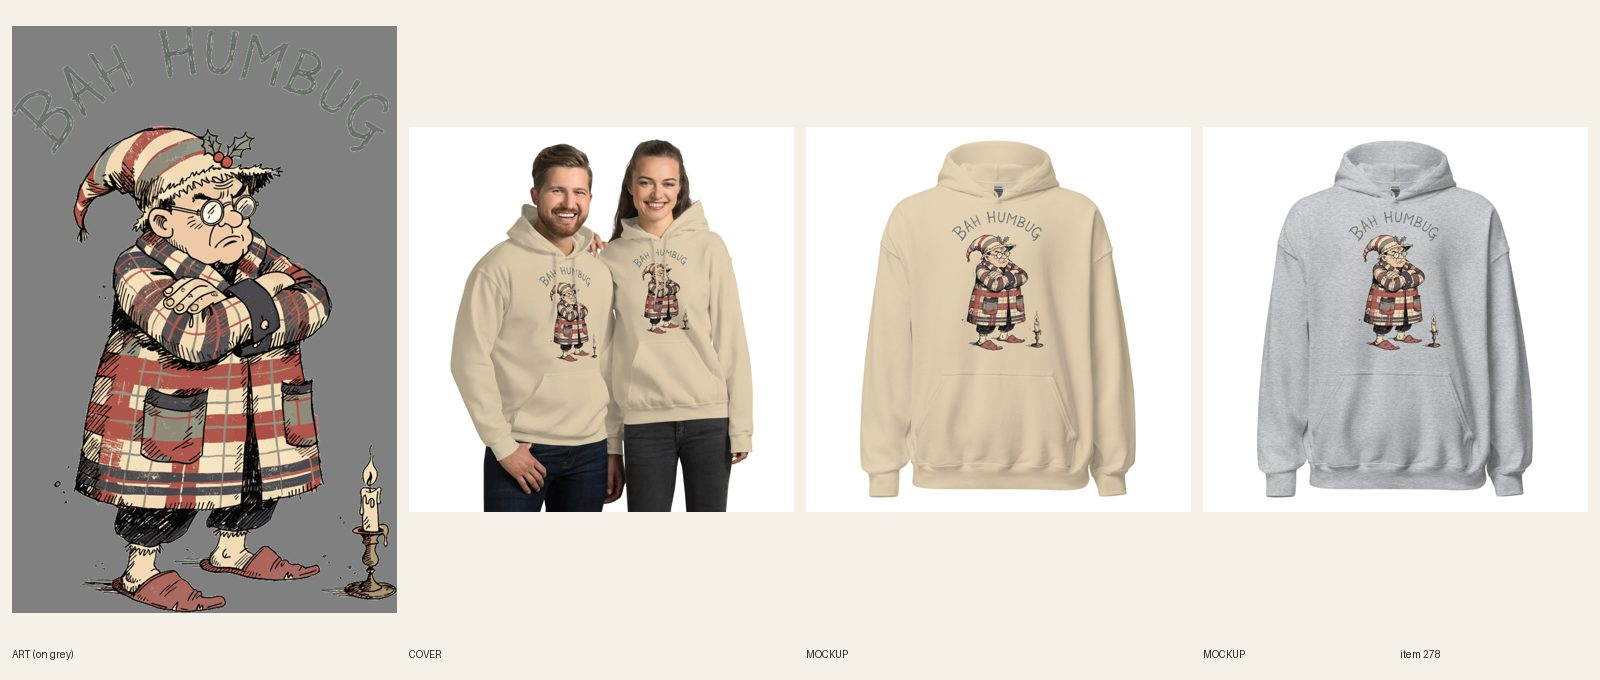
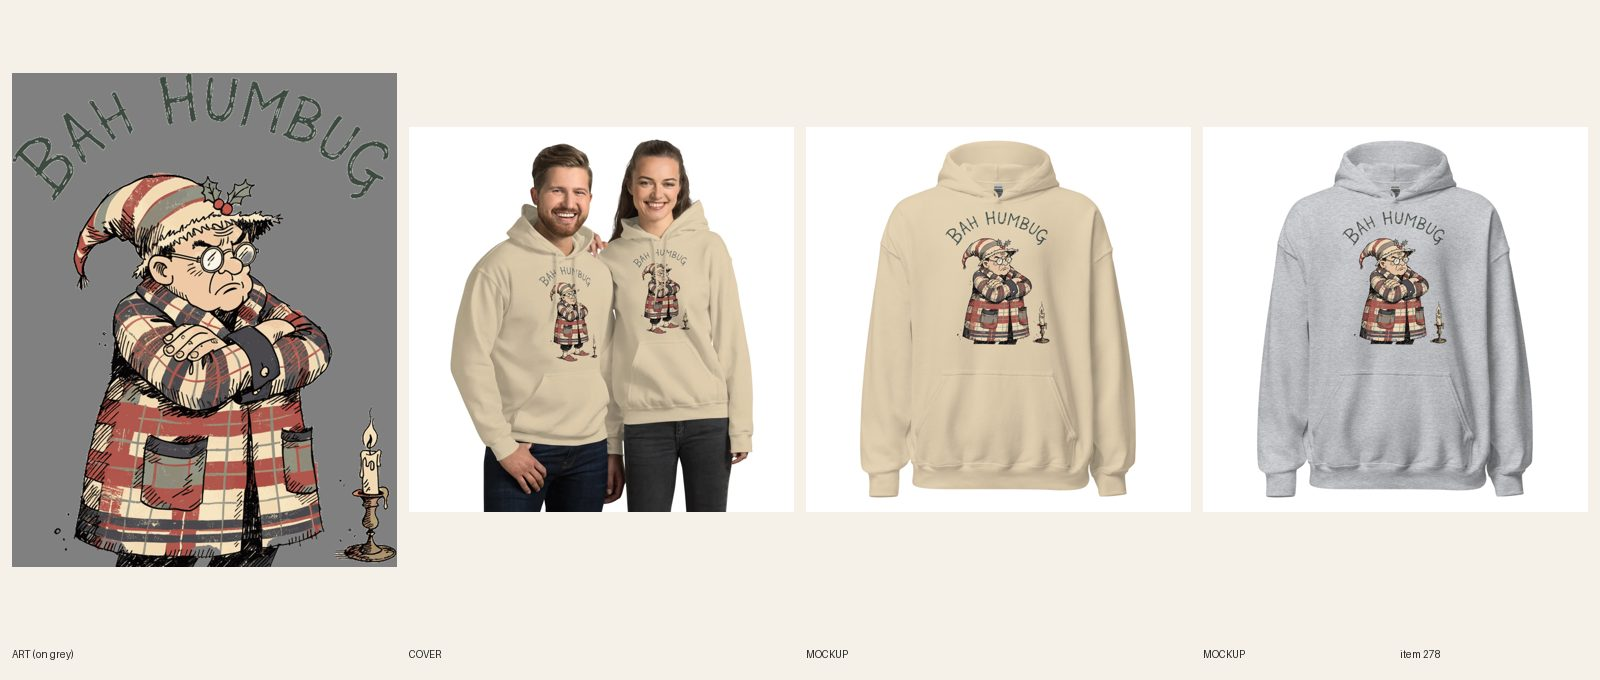
[A] review 278 Bah Humbug hoodie redo
Claude-Session: https://claude.ai/code/session_01GUybaihydzEF9YsiXP38qz

Changed region(s): [[0.0, 0.0309, 0.25, 0.9265], [0.8438, 0.3088, 0.9062, 0.525], [0.5938, 0.3088, 0.6562, 0.525]]

diff --git a/docs/pipeline/278-christmas-hoodie-bah-humbug.md b/docs/pipeline/278-christmas-hoodie-bah-humbug.md
@@ -1,4 +1,4 @@
-status: REDO
+status: REVIEW
 lane: A
 type: twin
 id: 278
@@ -29,3 +29,4 @@ cover: temp (swap)
   2. R5.3.5: after resizing, read BAH HUMBUG on the Sport Grey mockup at phone size. If the sage still sinks, darken the lettering ink one step (soft black-green) in print-prep, or swap Sport Grey for the closest mid color it reads on, and log why.
   3. Cover: temp (swap) stays. Re-mock both colors, update variant images, rebuild the sheet.
   Art, lettering (RESPECTFULLY correctly erased), copy and the 5 FAQs pass; keep them.
+- 2026-10-17 12:20 UTC builder [A]: REDO done. (a) Art cropped at row 4620 of the 5492 original just under the robe hem, bottom edge broken into a worn edge (ragged-edge.py), candlestick cut out and moved up 790 px so it stands beside the robe; (b) BAH HUMBUG measured 98% of the art width already (cols 0-3526 of 3600), so the arc stays; (c) FW 1500 TOP 0, print 1925 px tall, ends above the pouch seam on both mockups (seam about 2000 per #373). R5.3.5: the sage lettering ink was darkened to soft black-green (60,74,64) in print-prep (387,724 px, rows above the hat plus the B and G ends); on the Sport Grey mockup at phone size BAH HUMBUG now reads clearly. Printful file 1088206072 (3000x3850; docs/print-files/278-bah-humbug.png), sync 482425414 re-linked 12/12, both front mockups and back replaced and re-attached per color. Cover unchanged (temp, swap). R6.2: still no typeset line, ring, panel or box. Sheet regenerated. REVIEW.

diff --git a/docs/intake-log.md b/docs/intake-log.md
@@ -1,4 +1,5 @@
 RUNNING director since 2026-10-17 12:12 UTC
+2026-10-17 12:20 UTC — [A] REVIEW #278 Bah Humbug hoodie redo (cropped worn edge, candle moved, FW 1500, darker lettering, re-synced 12/12).
 2026-10-17 12:12 UTC — [A] REVIEW #410 Technically a Sweater hoodie: cover redo (couple style 1427, man and woman).
 2026-10-17 12:06 UTC — [A] REVIEW #411 Women's Christmas All Lit Up hoodie (twin, Navy + Black, FW 1500, lettering enlarged, temp cover, synced 12/12).
 2026-10-17 12:10 UTC — [B] Run summary (fal empty, temp-cover mode): REVIEW #418 Reel Talk hoodie, #419 Low Battery zip, #420 Still Loading zip, #421 Slurp Responsibly half zip, #422 Gym Rat hoodie, #423 Kaiju Naps zip (all twins, DRAFT, synced, cover: temp (swap)). #421 has a flat back-view cover (Printful has no model shot for the 4740 half zip, audit WARN expected). #422 art was cut from the pump-cover AOP JPG. Left: 354 pending fal cover; 378-382 and 385 need a hand re-letter (fal); ART-NEXT items wait for fal. Price chore (40 compare-at ERRORs, 25 would be lane B) NOT done: the bulk variant update was denied by the permission classifier. Lock released. (Log times above run ahead of the real clock by about 40 min; real run was 11:27-12:10 UTC.)
